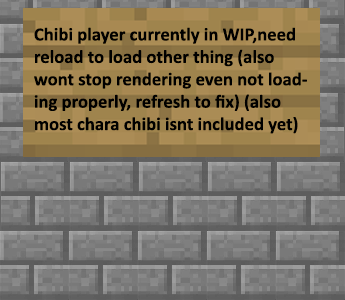
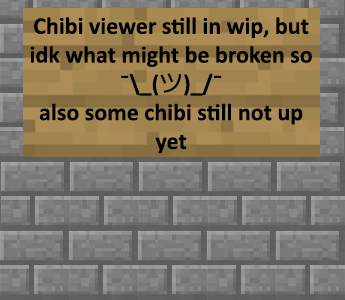
update notice and chibi load

Changed region(s): [[0.087, 0.06, 0.9275, 0.51]]

diff --git a/js/chara-detail.js b/js/chara-detail.js
@@ -2219,6 +2219,10 @@
             spinewidget = undefined
             $("#spine-widget").remove()
             $("#spine-frame").append('<div id="spine-widget" class="top-layer" style="position:absolute;width: 1800px; height: 1800px;top:-775px;left:-750px;pointer-events: none;z-index: 20;transform: scale(0.5);"></div>')
+            // console.log(loadchibi)
+            // if(loadchibi)$("#spine-frame").fadeIn(100);
+        }else{
+            if(loadchibi)$("#spine-frame").fadeIn(100);
         }
         if (chibiName != null && defaultAnimationName != null) {
             var xhr = new XMLHttpRequest();
